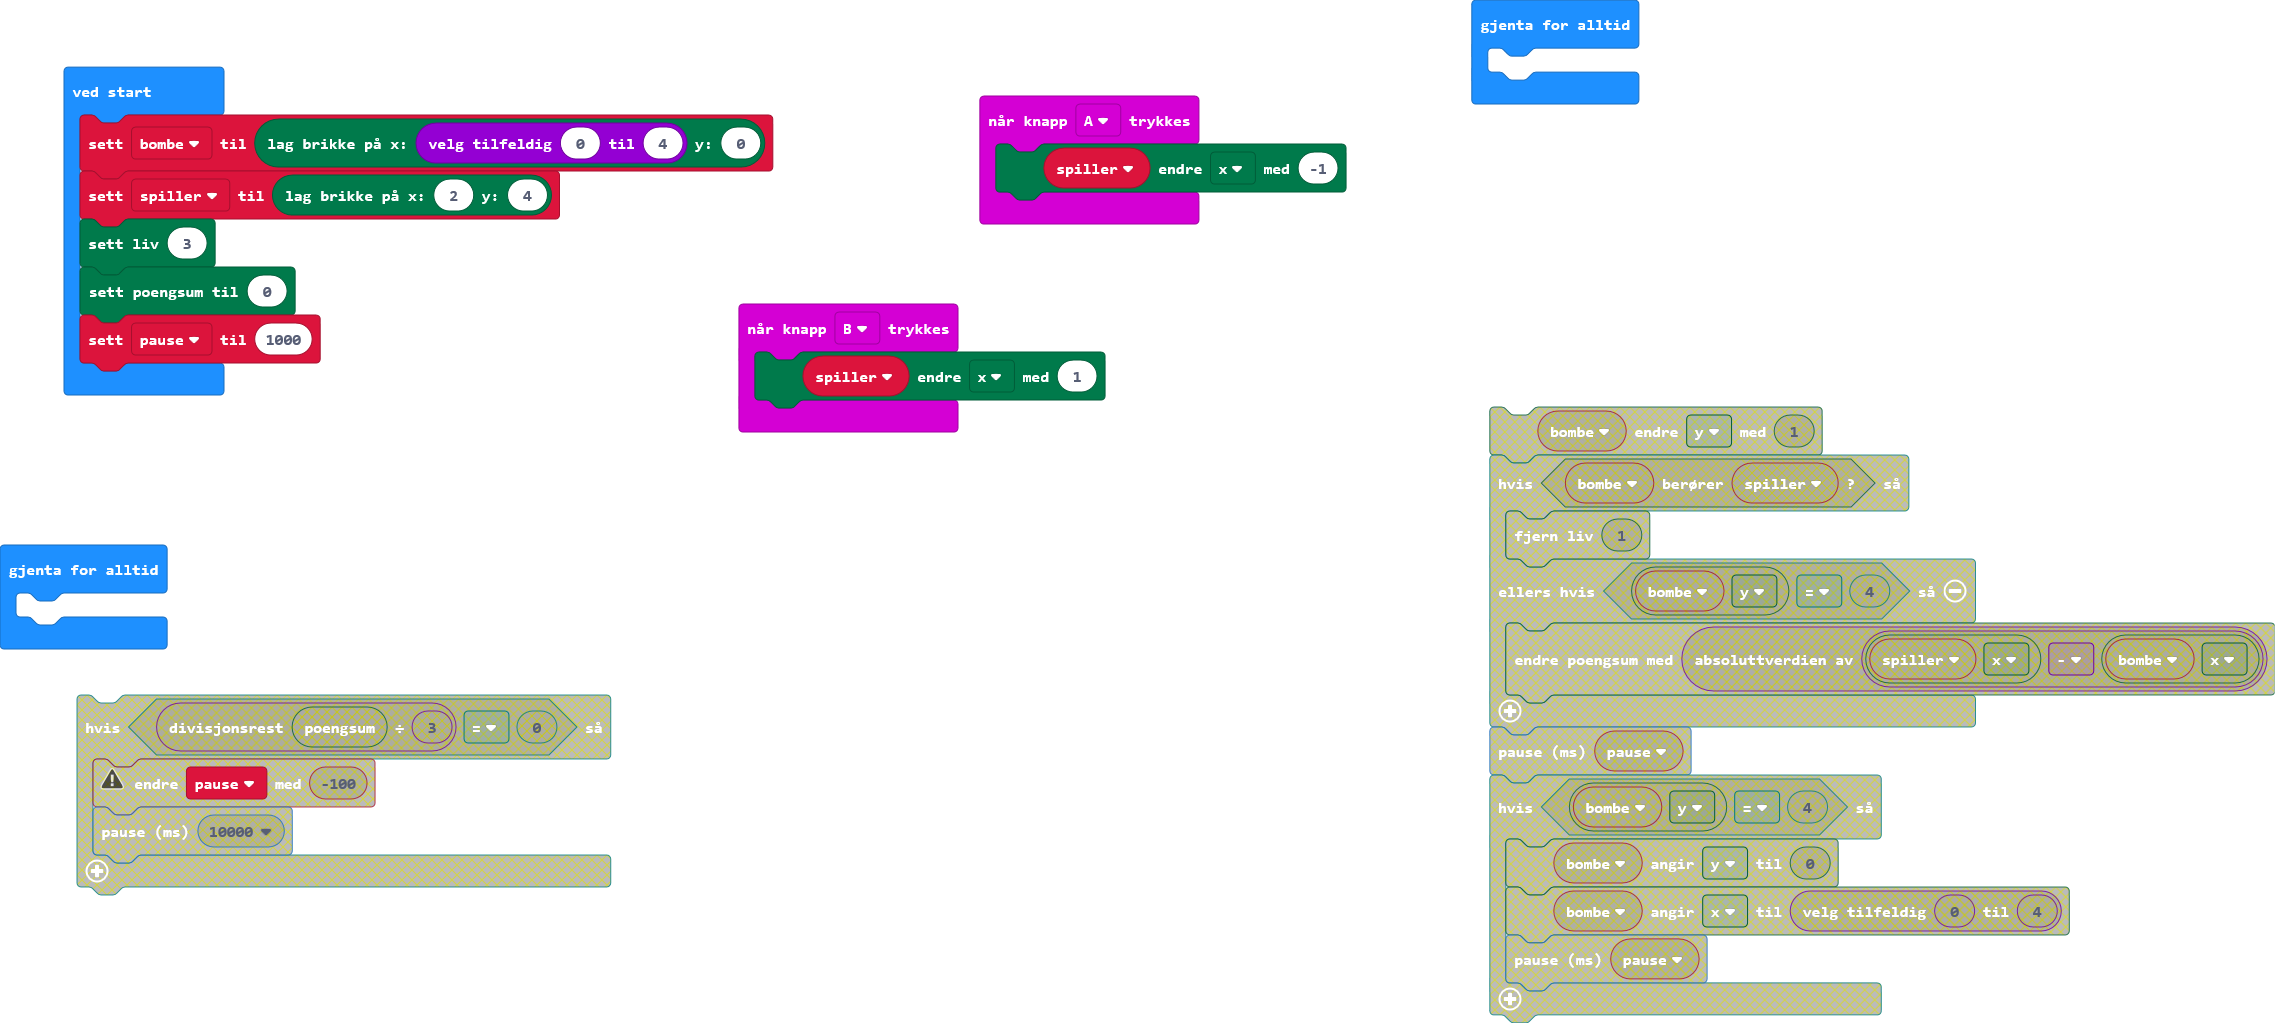
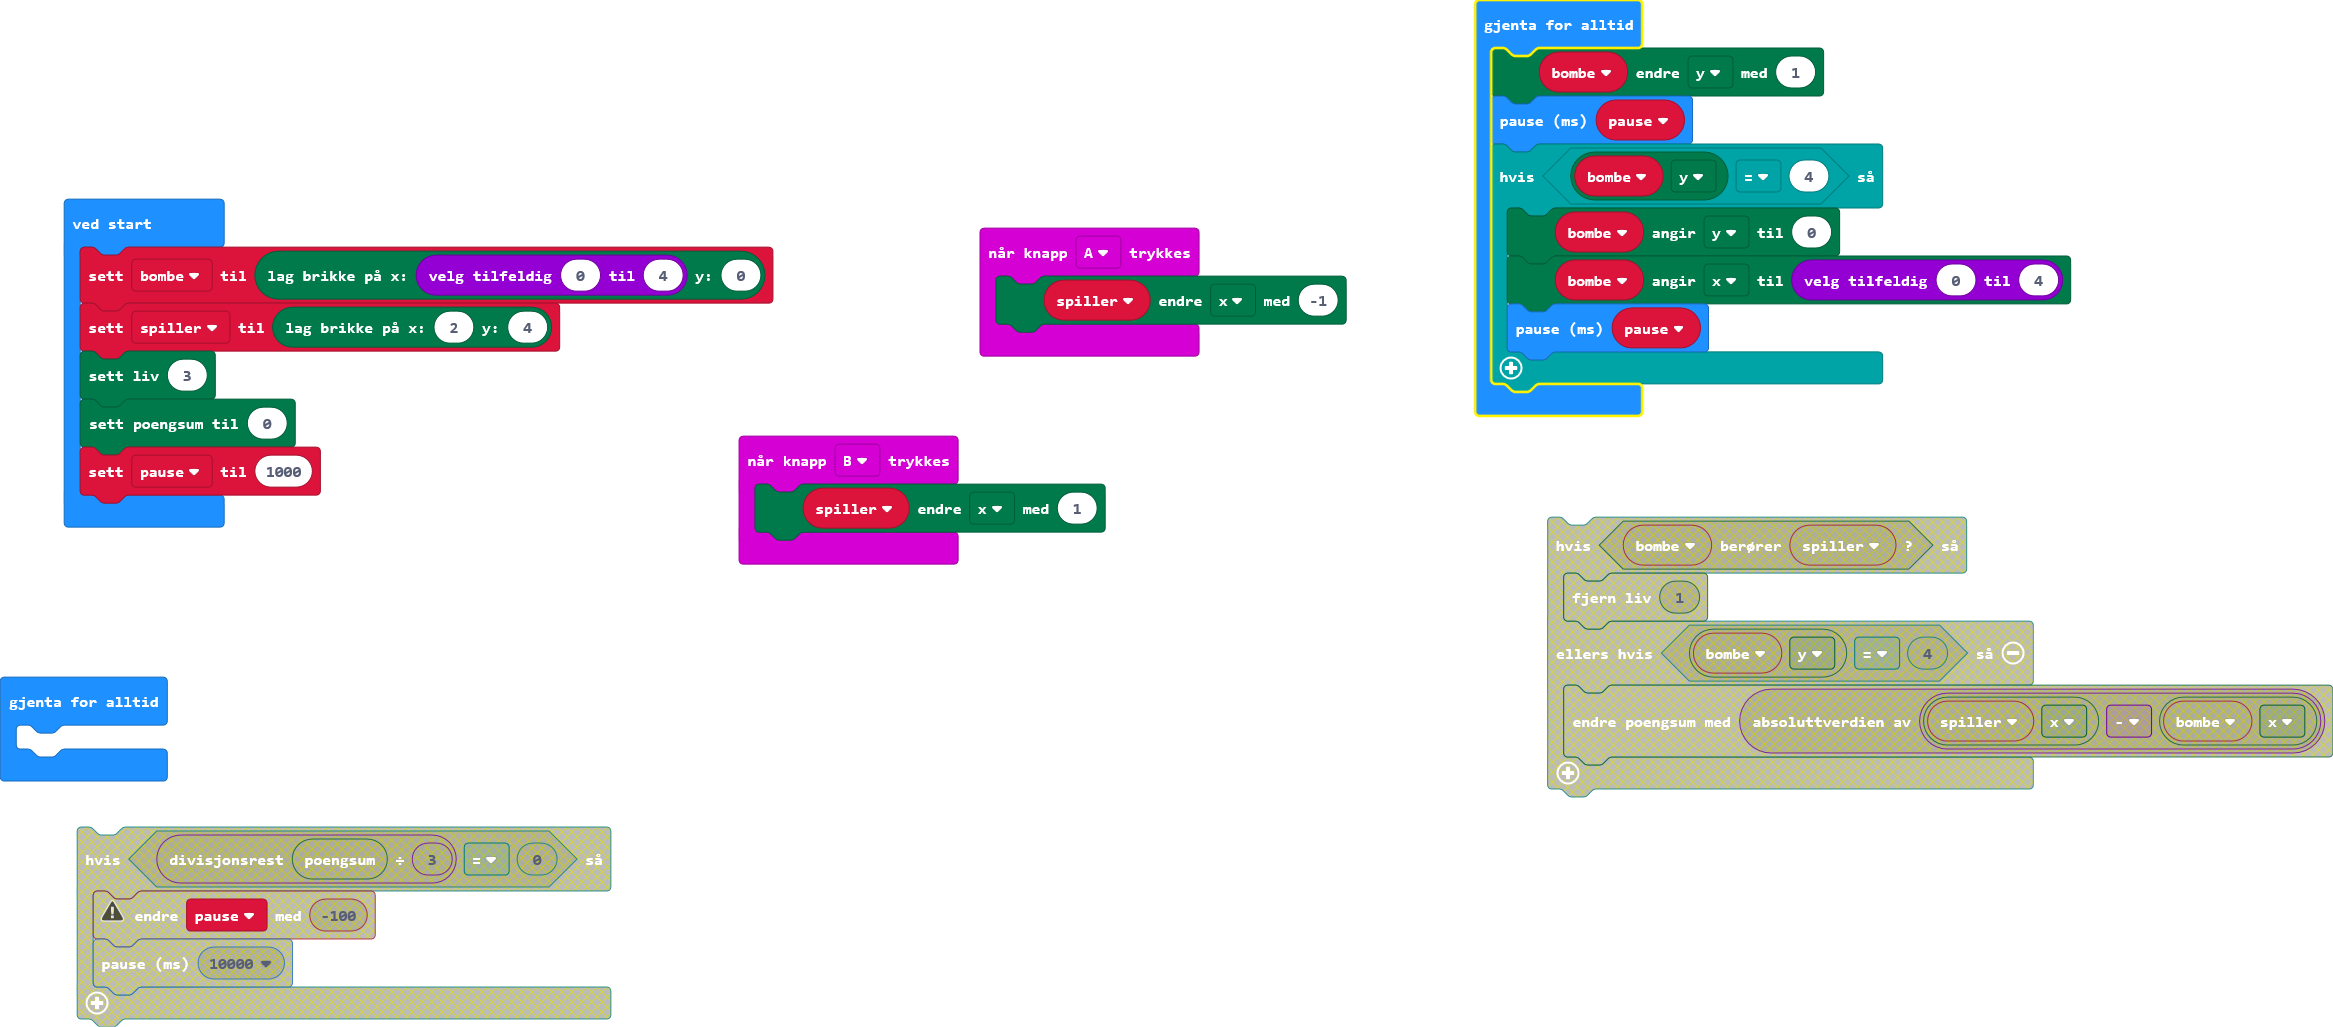
Update main.blocks, main.ts

diff --git a/main.ts b/main.ts
@@ -11,7 +11,13 @@ game.setLife(3)
 game.setScore(0)
 let pause2 = 1000
 basic.forever(function () {
-	
+    bombe.change(LedSpriteProperty.Y, 1)
+    basic.pause(pause2)
+    if (bombe.get(LedSpriteProperty.Y) == 4) {
+        bombe.set(LedSpriteProperty.Y, 0)
+        bombe.set(LedSpriteProperty.X, Math.randomRange(0, 4))
+        basic.pause(pause2)
+    }
 })
 basic.forever(function () {
 	
